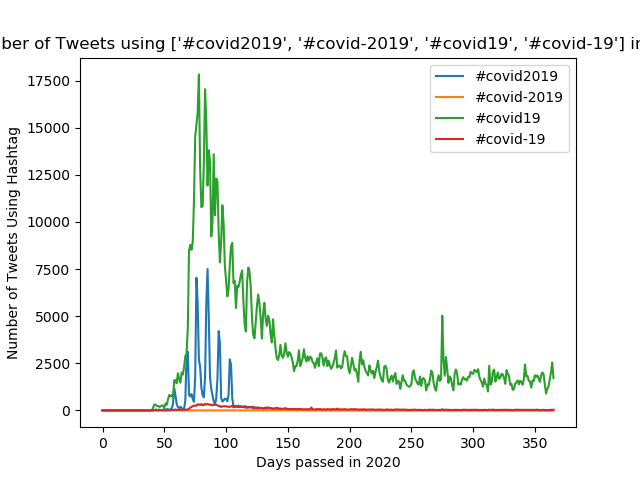
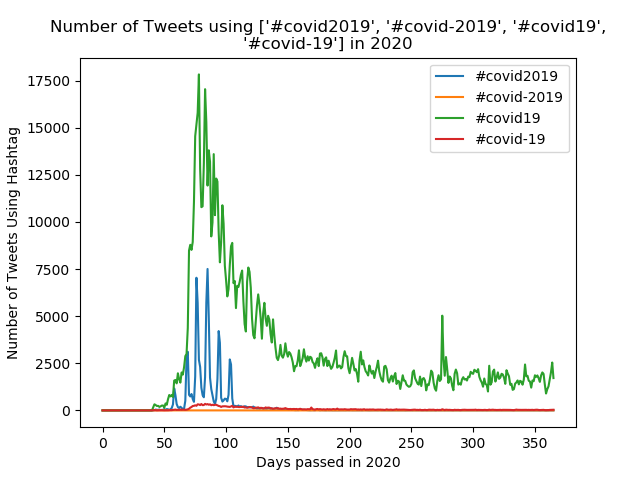
Fixed graph formatting

Changed region(s): [[0.0, 0.0312, 1.0, 0.125]]

diff --git a/src/alternative_reduce.py b/src/alternative_reduce.py
@@ -38,7 +38,7 @@ for key in args.keys:
     x_axis = np.arange(len(y_axis))
     ax.plot(x_axis, y_axis, label = key)
 
-ax.set_title("Number of Tweets using " + str(args.keys)+ " in 2020")
+ax.set_title("Number of Tweets using " + str(args.keys)+ " in 2020", wrap = True)
 ax.set_ylabel("Number of Tweets Using Hashtag")
 ax.set_xlabel("Days passed in 2020")
 plt.legend()
